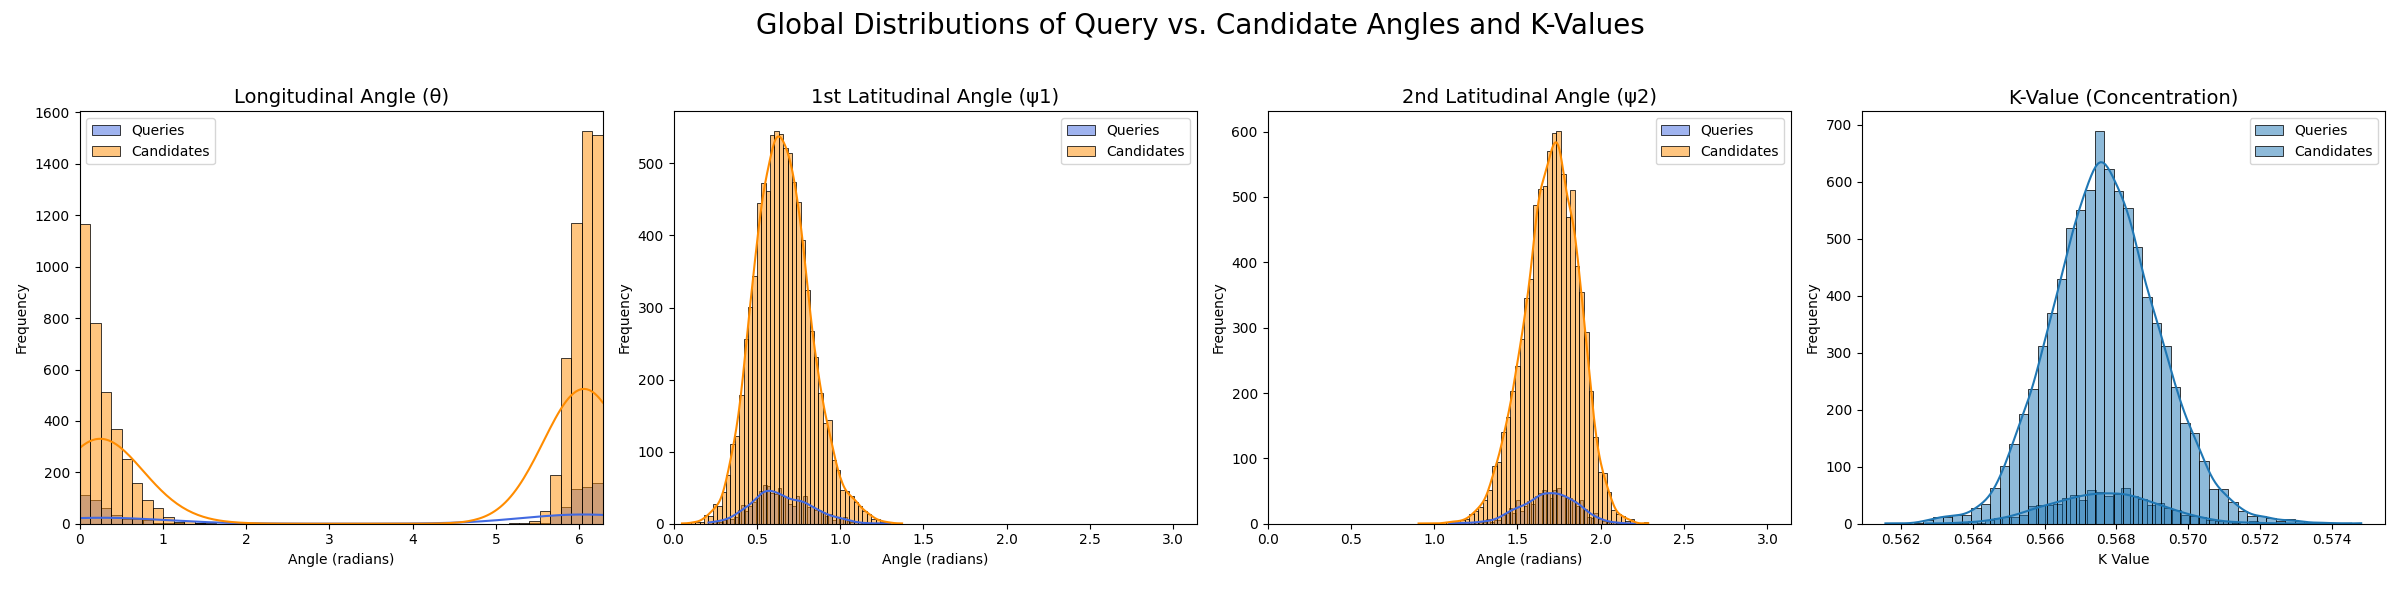
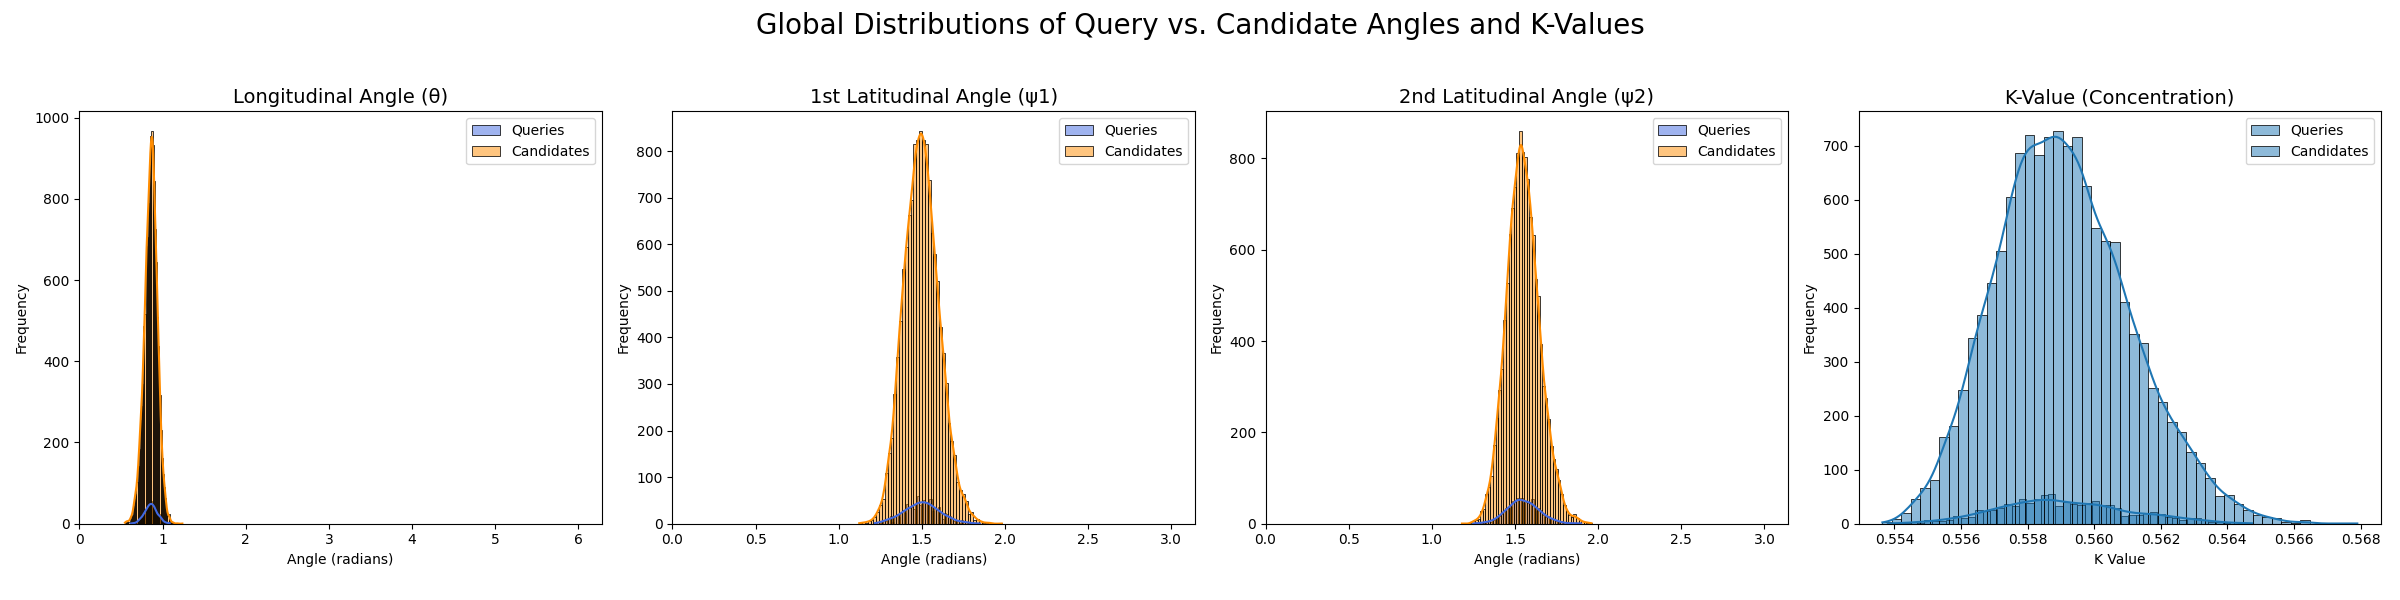
Add configurations for constant mu experiments for svgd

diff --git a/src/model.py b/src/model.py
@@ -152,9 +152,15 @@ class PolarTaxo(nn.Module):
         k_align = self.args.kappa_align
         svgd_combined = SVGD_Combined_Sphere(
             kappa_align=k_align, kappa_repel=k_repel)
-        parent_svgd_grad = svgd_combined(parent_sphere, mu_p)
-        child_svgd_grad = svgd_combined(child_sphere, mu_c)
-        negative_svgd_grad = svgd_combined(negative_sphere, mu_n)
+        if self.args.experiment_setting == 'constant_svgd':
+            parent_svgd_grad = svgd_combined(parent_sphere, parent_sphere)
+            child_svgd_grad = svgd_combined(child_sphere, child_sphere)
+            negative_svgd_grad = svgd_combined(
+                negative_sphere, negative_sphere)
+        else:
+            parent_svgd_grad = svgd_combined(parent_sphere, mu_p)
+            child_svgd_grad = svgd_combined(child_sphere, mu_c)
+            negative_svgd_grad = svgd_combined(negative_sphere, mu_n)
 
         taxo_loss = self.args.geometric_weight * \
             F.relu(welsch_cp-welsch_cn+self.args.beta).mean() + \
@@ -164,4 +170,4 @@ class PolarTaxo(nn.Module):
             negative_svgd_grad.norm(p=2, dim=1).mean()
         final_loss = taxo_loss+(self.args.svgd_weight*svgd_loss)
 
-        return final_loss, taxo_loss,svgd_loss
+        return final_loss, taxo_loss, svgd_loss

diff --git a/src/main_pred.py b/src/main_pred.py
@@ -88,7 +88,7 @@ print(args)
 # create_mag_data(args)
 exp = Experiments(args)
 exp.visualize_angle_distributions(
-    tag='test', path='/home/nitish/Polartaxo/final_result/mesh/svgd_kappa_align_repel/experiment_mesh_14_80_512_0.5_512_0.7_0.4_0.3_0.0_0.0.pt')
+    tag='test', path='/home/nitish/Polartaxo/result/wordnet_verb/train/svgd_kappa_align_repel/experiment_wordnet_verb_14_35_512_0.5_256_0.7_0.4_0.3_0.0_0.0.checkpoint')
 # exp.level_wise_prediction(
 #     tag='test', path='/home/nitish/Polartaxo/result/mesh/train/experiment_3_varied_geometric_weight/experiment_bert_mesh_2_60_1024_0.5_128_0.5_0.5.')
 # exp.predict(tag='test', path='/home/nitish/Polartaxo/result/mesh/train/experiment_3_varied_geometric_weight/experiment_bert_mesh_2_60_1024_0.5_128_0.8_0.5.')

diff --git a/src/main.py b/src/main.py
@@ -88,6 +88,8 @@ parser.add_argument('--run_id', type=str, default='',
 parser.add_argument('--entity', type=str, default='uaena', help='wandb entity')
 parser.add_argument('--checkpoint_path', type=str,
                     default=None, help='checkpoint path to resume training')
+parser.add_argument('--experiment_setting', type=str,
+                    default='standard', help='experiment setting for SVGD')
 
 start_time = time.time()
 print("Start time at : ")
@@ -160,7 +162,7 @@ if __name__ == '__main__':
     args.svgd_weight = 0.1
     if args.dataset == 'mesh':
         args.negsamples = 20
-        args.epochs = 80
+        args.epochs = 55
         args.embed_size = 512
     elif args.dataset == 'wordnet_verb':
         args.negsamples = 20
